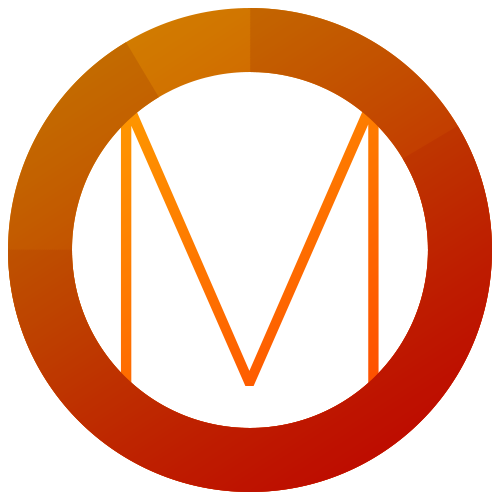
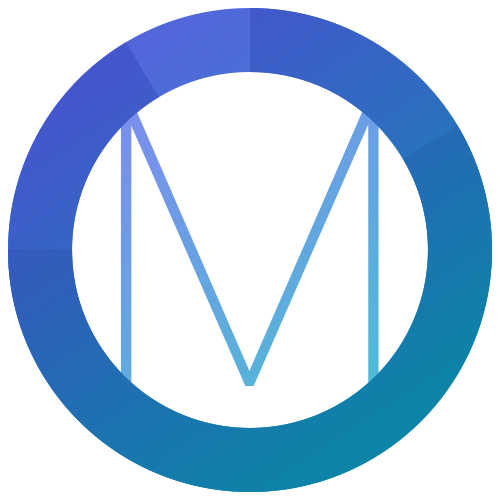
Fixed profile.png, improved README.md even more

diff --git a/README.md b/README.md
@@ -1,15 +1,16 @@
+![merely logo](profile.png)
 # merelybot
 merely is a discord bot intended to be highly modular and able to enhance a [discord server](https://discord.gg/f6TnEJM) it is invited to with useful commands like...
- - `m/shorten` to shorten URLs
- - `m/vote` to hold live multichoice polls in a channel
- - `m/welcome` and `m/farewell` to create custom messages when people leave or join
- - `m/clean` and `m/purge` to quickly clear messages in a channel
- - `m/janitor` to make tidy channels where bot spam is automatically removed
- - `m/dice` to roll as many custom dice as your heart desires
- - `m/meme` to bring the power of a [meme database](https://meme.yiays.com/) to a discord server
-> for interactive tutorials on how to use these commands, please refer to the [web UI](https://merely.yiays.com)
+ - `m/shorten` to shorten URLs | [demo](https://merely.yiays.com/#/shorten)
+ - `m/vote` to hold live multichoice polls in a channel | [demo](https://merely.yiays.com/#/vote)
+ - `m/welcome` and `m/farewell` to create custom messages when people leave or join | [demo](https://merely.yiays.com/#/welcome)
+ - `m/clean` and `m/purge` to quickly clear messages in a channel | [clean demo](https://merely.yiays.com/#/clean) | [purge demo](https://merely.yiays.com/#/purge)
+ - `m/janitor` to make tidy channels where bot spam is automatically removed | [demo](https://merely.yiays.com/#/janitor)
+ - `m/dice` to roll as many custom dice as your heart desires | [demo](https://merely.yiays.com/#/dice)
+ - `m/meme` to bring the power of a [meme database](https://meme.yiays.com/) to a discord server | [demo](https://merely.yiays.com/#/meme)
+> [visit the webUI >](https://merely.yiays.com/)
 
-> you can add merely to your discord server using the link [here](https://discordapp.com/oauth2/authorize?client_id=309270899909984267&scope=bot&permissions=0)
+> [add merely to your server >](https://discordapp.com/oauth2/authorize?client_id=309270899909984267&scope=bot&permissions=0)
 
 ## news
 merely is approaching three years of development and simultaneously the 1.0.0 update. merely has reached a high level of stability, scalability and modularity.
@@ -25,7 +26,7 @@ you can read the up to date changelog [here](https://merely.yiays.com/changes.ht
  - give merely the token with
    - `export MerelyBeta="TOKEN"` on linux
    - `setx MerelyBeta "TOKEN"` on windows
-   - *it's recommended you create a .bat or .sh file which assigns these variables *
+   - *it's recommended you create a .bat or .sh file which assigns these variables whenever you start the bot*
  - run it with `python3 merelybot.py`
 
 after the first run, you can enable commands by editing the file at merely_data/config.ini in order to enable modules. simply switch the value of each module you want from `False` to `True`, note that the meme module has external dependencies and will not work in a local environment yet.
@@ -37,12 +38,10 @@ work is being done towards making merely customisible, with custom prefixes and 
 
 feel free to fix any bugs or add new features to a fork, and send me a pull request, pretty standard github stuff.
 
-> keep in mind this lowercase thing is a theme of merely, consider it appealing to the customs of discord.
-
 ## modules
 | module | description | added |
 | ------ | ----------- | ----- |
-| [main](merelybot.py)* | imports all modules, creates some global variables, and runs the main loop | 0.0.1 |
+| [main](merelybot.py)* | imports all modules, creates some global variables, establishes a log, and runs the main loop | 0.0.1 |
 | [globals](globals.py)* | contains global variables and configuration data | 0.0.1 |
 | [help](help.py)<sup>1</sup> | help contains help strings for all commands, lists of commands, lists of hints and other documentation. | 0.0.1 |
 | [admin](admin.py) | commands restricted to mods and server owners | <0.5.0 |
